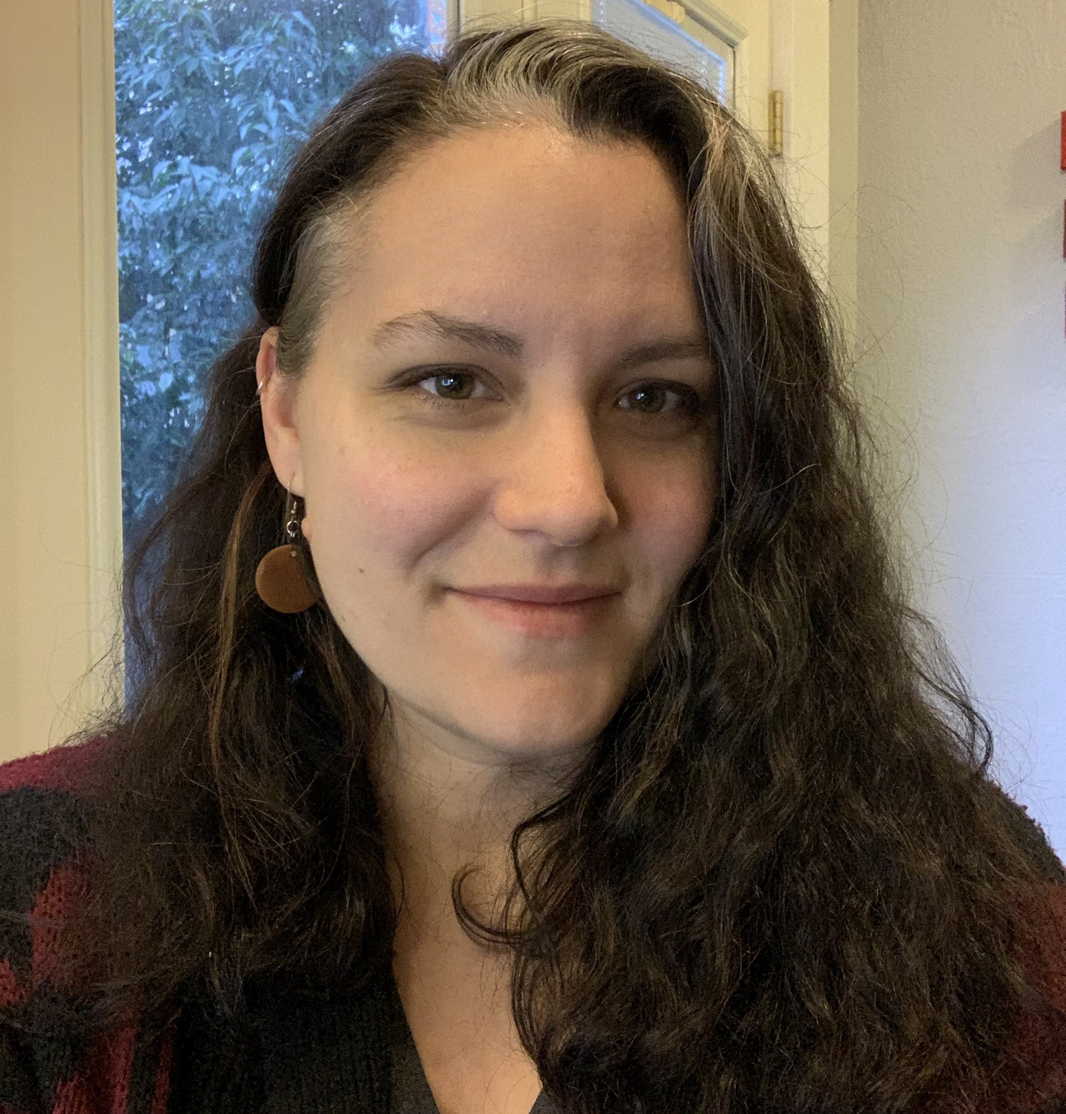
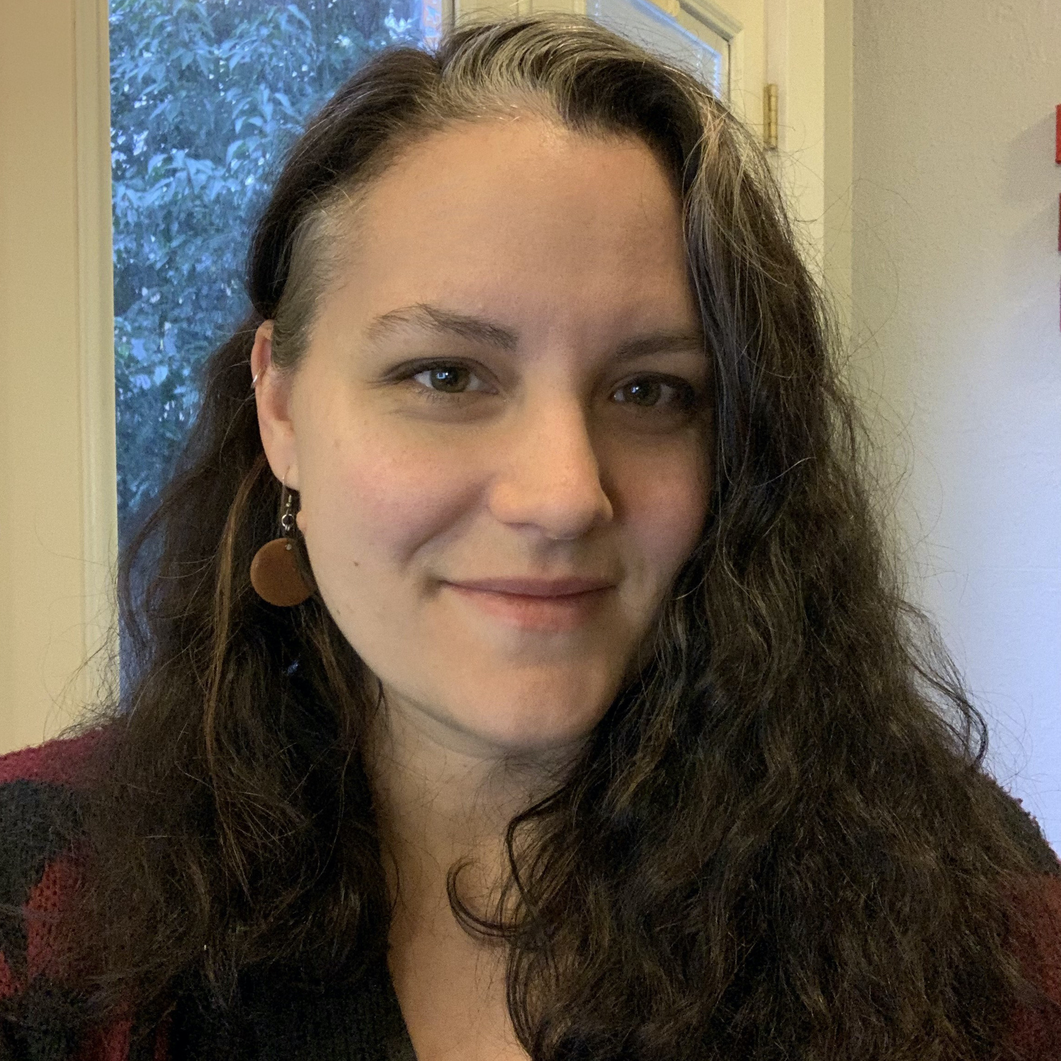
About Us styling

diff --git a/src/AboutUs/AboutUs.js b/src/AboutUs/AboutUs.js
@@ -4,31 +4,31 @@ import "./AboutUs.css"
 export default class AboutUs extends Component {
     render() {
         return (
-            <div>
-                <h1>About the Gainful Team</h1>
+            <div className='about-us-page'>
+                <h1 className='title'>About the Gainful Team</h1>
                 <div className='bioCard'>
-                    <img className='bio-pic-long' alt='Nicole' src='/bio-nicole.png' />
-                    <p>Nicole (she/her) is a full stack software engineer located in Portland, OR. She enjoys working with computers and collaborating on fun and impactful projects that will help the planet, animals, and all humans. Also a huge fan of vegan food, coffee and being outside in the beautiful Pacific Northwest with her dog, Cooper. Her favorite part of gardening is getting to cook and eat all the tasty homegrown veggies!</p>
-                    <a href='https://github.com/nicole-m-martin'>My Github</a>
-                    <a href='https://www.linkedin.com/in/nicolemartinpdx/'>My LinkedIn</a>
+                    <img className='bio-pic' alt='Nicole' src='/bio-nicole.png' />
+                    <p><strong>Nicole (she/her)</strong> <br />is a full stack software engineer located in Portland, OR. She enjoys working with computers and collaborating on fun and impactful projects that will help the planet, animals, and all humans. Also a huge fan of vegan food, coffee and being outside in the beautiful Pacific Northwest with her dog, Cooper. Her favorite part of gardening is getting to cook and eat all the tasty homegrown veggies!</p>
+                    <br /><a href='https://github.com/nicole-m-martin'>My Github</a>
+                    <br /><a href='https://www.linkedin.com/in/nicolemartinpdx/'>My LinkedIn</a>
                 </div>
                 <div className='bioCard'>
                     <img className='bio-pic' alt='Katrina' src='/bio-katrina.jpg' />
-                    <p>Katrina (she/her) is a full stack software engineer in Portland, transplanted from Ohio, and setting growing strong roots. She enjoys coding, design, painting, and gardening. She most recently planted sunflower seeds with her two girls and they have been having a great time watching them sprout!</p>
-                    <a href='https://github.com/KatrinaCloyd?tab=repositories'>My Github</a>
-                    <a href='https://www.linkedin.com/in/katrinacloyd/'>My LinkedIn</a>
+                    <p><strong>Katrina (she/her)</strong> <br /> is a full stack software engineer in Portland, transplanted from Ohio, and setting growing strong roots. She enjoys coding, design, painting, and gardening. She most recently planted sunflower seeds with her two girls and they have been having a great time watching them sprout!</p>
+                    <br /><a href='https://github.com/KatrinaCloyd?tab=repositories'>My Github</a>
+                    <br /><a href='https://www.linkedin.com/in/katrinacloyd/'>My LinkedIn</a>
                 </div>
                 <div className='bioCard'>
                     <img className='bio-pic' alt='KB' src='/bio-kb.jpg' />
-                    <p>KB (she/her) is a software engineer in the city of roses, Portland, OR. She loves to grow beets in her garden and dreams of the day her rosemary plant gets massive!</p>
-                    <a href='https://github.com/katrinkajb'>My Github</a>
-                    <a href='https://www.linkedin.com/in/katy-boyles/'>My LinkedIn</a>
+                    <p><strong>KB (she/her)</strong><br /> is a software engineer in the city of roses, Portland, OR. She loves to grow beets in her garden and dreams of the day her rosemary plant gets massive!</p>
+                    <br /><a href='https://github.com/katrinkajb'>My Github</a>
+                    <br /><a href='https://www.linkedin.com/in/katy-boyles/'>My LinkedIn</a>
                 </div>
                 <div className='bioCard'>
                     <img className='bio-pic' alt='Kat' src='/bio-kat.jpg' />
-                    <p>Kat (they/them) is a dancer and choreographer turned software engineer. They have about 40 plants in their home and enjoy propagating plants for friends. Share the greens!</p>
-                    <a href='https://github.com/kat-sauma'>My Github</a>
-                    <a href='https://www.linkedin.com/in/kat-sauma/'>My LinkedIn</a>
+                    <p><strong>Kat (they/them)</strong><br /> is a dancer and choreographer turned full-stack software engineer. They love combining art and tech and aim to create apps that make being the best citizen possible... a little more possible. They have about 40 plants in their home and enjoy propagating plants for friends. Share the greens!</p>
+                    <br /><a href='https://github.com/kat-sauma'>My Github</a>
+                    <br /><a href='https://www.linkedin.com/in/kat-sauma/'>My LinkedIn</a>
                 </div>
             </div>
         )

diff --git a/src/AboutUs/AboutUs.css b/src/AboutUs/AboutUs.css
@@ -1,9 +1,22 @@
 .bio-pic {
     height: 200px;
-    width: 200px;
+    border-radius: 100%;
+    border-left: 5px solid #cdd5bf;
+    margin-bottom: 25px;
 }
 
-.bio-pic-long {
-    height: 200px;
-    width: 250px;
+.bioCard {
+    height: 100px;
+    width: 200px;
+}
+.about-us-page {
+    display: flex;
+    flex-direction: row;
+    justify-content: space-around;
+    margin-top: 100px;
+}
+
+.title {
+    writing-mode: vertical-lr;
+    text-orientation: upright;
 }
